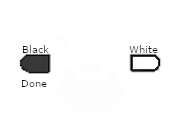
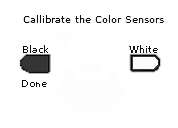
Added UI for the color sensor calibration program

diff --git a/programs/library.py b/programs/library.py
@@ -4,7 +4,7 @@ from pybricks.ev3devices import (Motor, TouchSensor, ColorSensor, InfraredSensor
 from pybricks.parameters import Port, Stop, Direction, Button, Color
 from pybricks.tools import wait, StopWatch, DataLog
 from pybricks.robotics import DriveBase
-from pybricks.media.ev3dev import SoundFile, ImageFile
+from pybricks.media.ev3dev import Image, SoundFile, ImageFile
 from time import sleep
 
 from math import *
@@ -75,15 +75,20 @@ class FUNCTION_LIBRARY:
         whiteDone = False
 
         print("old black: " + str(self.black) + ", old white: " + str(self.white))
+        self.hub.screen.load_image(Image('GUI/ColorCalibrateNone.PNG'))
         while True:
             if Button.LEFT in self.hub.buttons.pressed() and not blackDone:
                 self.black = (self.colorSensor1.reflection() + self.colorSensor2.reflection()) / 2
+                if (whiteDone): self.hub.screen.load_image(Image('GUI/ColorCalibrateBoth.PNG'))
+                else: self.hub.screen.load_image(Image('GUI/ColorCalibrateBlack.PNG'))
                 blackDone = True
 
             if Button.RIGHT in self.hub.buttons.pressed() and not whiteDone:
                 self.white = (self.colorSensor1.reflection() + self.colorSensor2.reflection()) / 2
+                if (blackDone): self.hub.screen.load_image(Image('GUI/ColorCalibrateBoth.PNG'))
+                else: self.hub.screen.load_image(Image('GUI/ColorCalibrateWhite.PNG'))
                 whiteDone = True
-            
+                
             if blackDone and whiteDone:
                 sleep(1)
                 break

diff --git a/programs/main.py b/programs/main.py
@@ -49,8 +49,8 @@ robot = DriveBase(leftMotor, rightMotor, wheel_diameter=57.15, axle_track=115)
 # init the library
 library = FUNCTION_LIBRARY(robot, ev3, leftMotor, rightMotor, mediumMotorA, mediumMotorD, colorSensor1, colorSensor2, gyro3, gyro4)
 
-ev3.screen.load_image(Image('GUI/ComboButtons.PNG'))
 library.calibrate()
+ev3.screen.load_image(Image('GUI/ComboButtons.PNG'))
 
 while True:
     buttons = ev3.buttons.pressed()
